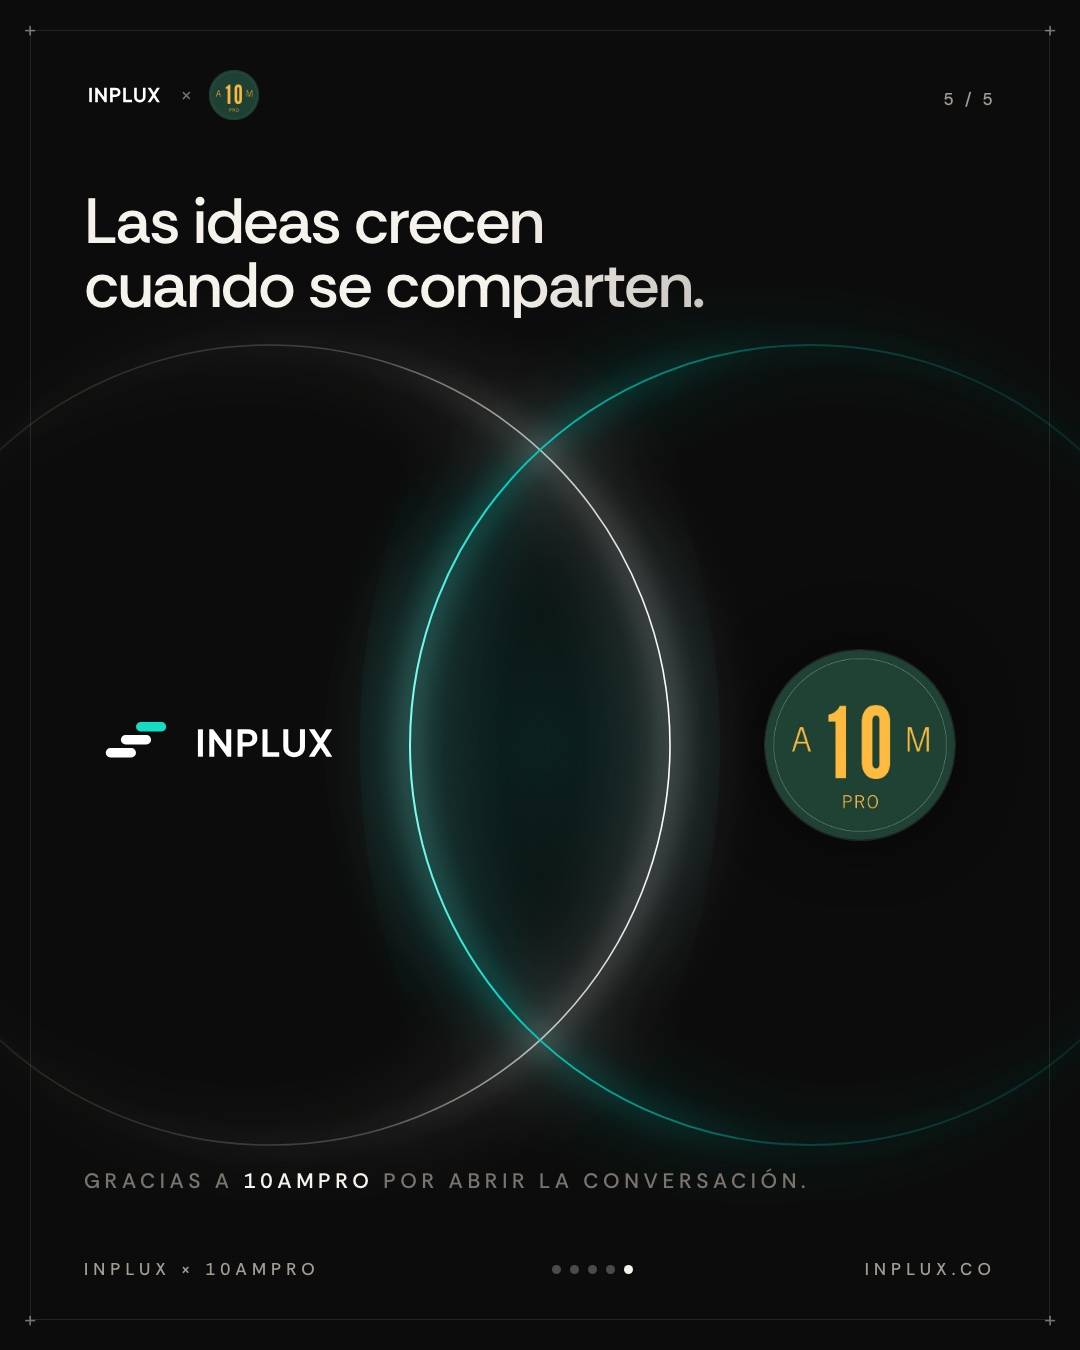
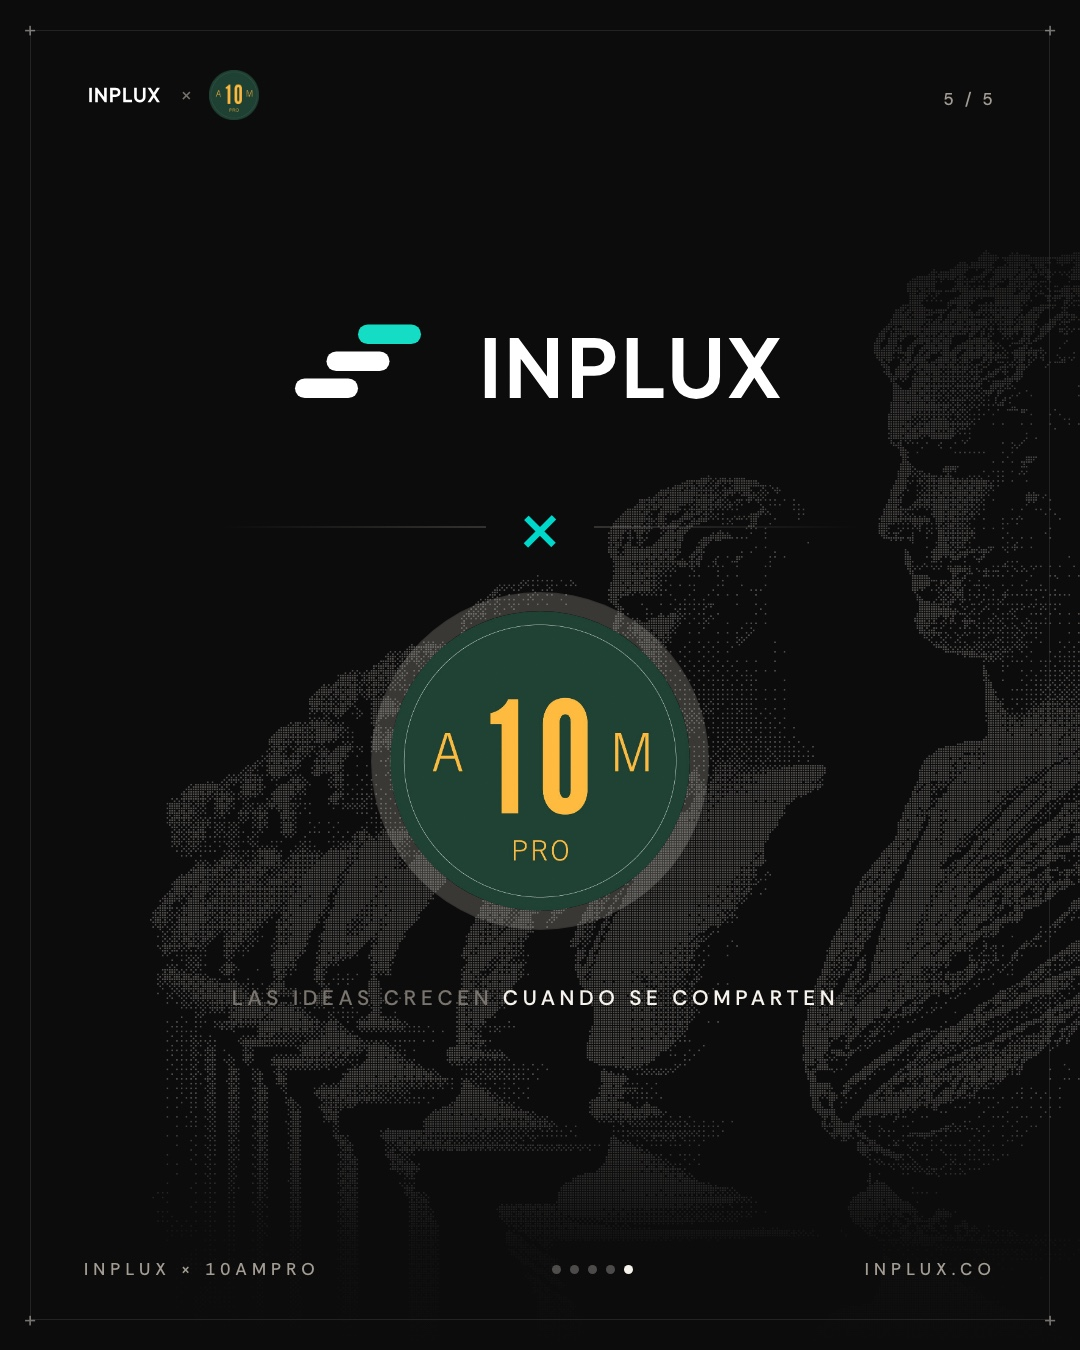
feat(instagram): cierre definitivo = sello INPLUX × 10ampro (opción C)

diff --git a/brand/instagram/dia-d-reglas/reglas10am_05_cierre.html b/brand/instagram/dia-d-reglas/reglas10am_05_cierre.html
@@ -23,33 +23,15 @@ body{font-family:"Rethink Sans",sans-serif;color:#f6f2ec;-webkit-font-smoothing:
   box-shadow:0 0 0 14px rgba(0,215,202,.05),0 0 80px rgba(0,215,202,.18)}
 .tallo{width:1.5px;background:rgba(246,242,236,.16);margin:0 auto}
 .tarjeta{background:#f6f2ec;color:#0c0c0b;border-radius:14px;display:flex;justify-content:space-between;align-items:center;padding:30px 36px}
-</style></head><body><div class="lienzo"><svg width="1080" height="1350" viewBox="0 0 1080 1350" style="position:absolute;inset:0">
-  <defs>
-    <linearGradient id="gi" gradientUnits="userSpaceOnUse" x1="-130" y1="0" x2="670" y2="0">
-      <stop offset="0" stop-color="#f6f2ec" stop-opacity=".04"/><stop offset=".62" stop-color="#f6f2ec" stop-opacity=".22"/>
-      <stop offset="1" stop-color="#ffffff" stop-opacity="1"/></linearGradient>
-    <linearGradient id="gd" gradientUnits="userSpaceOnUse" x1="410" y1="0" x2="1210" y2="0">
-      <stop offset="0" stop-color="#7ffff4" stop-opacity="1"/><stop offset=".12" stop-color="#00d7ca" stop-opacity=".95"/>
-      <stop offset=".45" stop-color="#00d7ca" stop-opacity=".25"/><stop offset="1" stop-color="#00d7ca" stop-opacity=".05"/></linearGradient>
-    <filter id="halo" x="-20%" y="-20%" width="140%" height="140%"><feGaussianBlur stdDeviation="14"/></filter>
-    <filter id="halo2" x="-20%" y="-20%" width="140%" height="140%"><feGaussianBlur stdDeviation="40"/></filter>
-    <radialGradient id="lente" cx="540" cy="745" r="300.0" gradientUnits="userSpaceOnUse">
-      <stop offset="0" stop-color="#00d7ca" stop-opacity=".10"/><stop offset="1" stop-color="#00d7ca" stop-opacity="0"/></radialGradient>
-  </defs>
-  <ellipse cx="540" cy="745" rx="180.0" ry="380.0" fill="url(#lente)"/>
-  <g filter="url(#halo2)" opacity=".9"><circle cx="270" cy="745" r="400" fill="none" stroke="url(#gi)" stroke-width="10"/><circle cx="810" cy="745" r="400" fill="none" stroke="url(#gd)" stroke-width="12"/></g>
-  <g filter="url(#halo)" opacity=".9"><circle cx="270" cy="745" r="400" fill="none" stroke="url(#gi)" stroke-width="4"/><circle cx="810" cy="745" r="400" fill="none" stroke="url(#gd)" stroke-width="5"/></g>
-  <circle cx="270" cy="745" r="400" fill="none" stroke="url(#gi)" stroke-width="1.6"/><circle cx="810" cy="745" r="400" fill="none" stroke="url(#gd)" stroke-width="2"/>
-</svg>
-<div style="position:absolute;left:84px;right:84px;top:190px">
-  <h1 class="titular" style="font-size:64px">Las ideas crecen<br>cuando se comparten.</h1>
-</div>
-<div style="position:absolute;left:50px;width:340px;top:707px;display:flex;justify-content:center;align-items:center;gap:16px">
-  <svg viewBox="0 0 100 100" width="72" height="72"><rect x="8" y="57" width="42" height="13" rx="6.5" fill="#fff"/><rect x="29" y="39" width="42" height="13" rx="6.5" fill="#fff"/><rect x="50" y="21" width="42" height="13" rx="6.5" fill="#15dcc4"/></svg><img src="assets/wordmark-white.svg" style="height:42px;display:block"></div>
-<div style="position:absolute;left:690px;width:340px;top:650px;display:flex;justify-content:center">
-  <img src="assets/10ampro.png" style="width:190px;height:190px;display:block;box-shadow:0 0 0 1px rgba(246,242,236,.12),0 0 60px rgba(0,0,0,.6);border-radius:50%"></div>
-<div style="position:absolute;left:84px;right:84px;bottom:150px;display:flex;justify-content:space-between;align-items:center">
-  <span class="sub">Gracias a <b>10ampro</b> por abrir la conversación.</span>
+</style></head><body><div class="lienzo"><img class="trama" src="trama/galeria.png" style="left:150px;top:250px;width:1250px;opacity:0.28;-webkit-mask-image:none;mask-image:none"><div style="position:absolute;inset:0;background:linear-gradient(180deg,#0c0c0b 0%,rgba(12,12,11,.85) 14%,rgba(12,12,11,.25) 30%,transparent 45%,transparent 80%,rgba(12,12,11,.9) 92%,#0c0c0b 100%)"></div>
+<div style="position:absolute;inset:0;display:flex;flex-direction:column;align-items:center;justify-content:center;gap:40px;padding-bottom:40px">
+  <div style="display:flex;align-items:center;gap:30px"><svg viewBox="0 0 100 100" width="150" height="150"><rect x="8" y="57" width="42" height="13" rx="6.5" fill="#fff"/><rect x="29" y="39" width="42" height="13" rx="6.5" fill="#fff"/><rect x="50" y="21" width="42" height="13" rx="6.5" fill="#15dcc4"/></svg><img src="assets/wordmark-white.svg" style="height:92px"></div>
+  <div style="display:flex;align-items:center;gap:28px;width:640px">
+    <i style="flex:1;height:1.5px;background:linear-gradient(90deg,transparent,rgba(246,242,236,.16))"></i>
+    <span style="font-size:88px;line-height:1;color:#00d7ca;font-weight:400">×</span>
+    <i style="flex:1;height:1.5px;background:linear-gradient(90deg,rgba(246,242,236,.16),transparent)"></i></div>
+  <img src="assets/10ampro.png" style="width:300px;height:300px;display:block;border-radius:50%;box-shadow:0 0 0 18px rgba(246,242,236,.03),0 0 0 19px rgba(246,242,236,.16)">
+  <p class="sub" style="margin-top:30px;text-align:center">Las ideas crecen <b>cuando se comparten</b>.</p>
 </div>
 <div class="grano"></div><div class="marco"></div><div class="cruz" style="top:21px;left:21px">+</div><div class="cruz" style="top:21px;right:21px">+</div><div class="cruz" style="bottom:21px;left:21px">+</div><div class="cruz" style="bottom:21px;right:21px">+</div>
 <div style="position:absolute;left:84px;top:70px"><div style="display:flex;align-items:center;gap:16px"><img src="assets/wordmark-white.svg" style="height:22px;display:block"><span style="color:#77726b;font-size:22px;line-height:1">×</span><img src="assets/10ampro.png" style="height:50px;width:50px;display:block"></div></div>

diff --git a/brand/instagram/dia-d-reglas/build.py b/brand/instagram/dia-d-reglas/build.py
@@ -247,12 +247,9 @@ PIEZAS = {
                                                "La sincronización de <b>muchas mentes</b> en un mismo lugar.", d_collective()), 1080, 1350),
     "reglas10am_04_network": (lambda: regla(3, "manos", (-320, 560, 1720), "Network<br>Sharing.",
                                             "Activar <b>las redes propias</b> para acelerar a la gente correcta.", d_network()), 1080, 1350),
-    "reglas10am_05_cierre": (cierre, 1080, 1350),
-    "opcion_b_diagrama": (cierre_diagrama, 1080, 1350),
-    "opcion_c_sello": (cierre_sello, 1080, 1350),
+    "reglas10am_05_cierre": (cierre_sello, 1080, 1350),  # elegido por Cristian el 22-oct (opción C)
 }
-if (AQUI / "trama" / "toque.png").exists():
-    PIEZAS["opcion_a_manos"] = (cierre_manos, 1080, 1350)
+# Descartadas el 22-oct, se conservan por si se retoman: cierre (eclipse), cierre_manos (A), cierre_diagrama (B).
 
 if __name__ == "__main__":
     for nombre, (fn, _, _) in PIEZAS.items():

diff --git a/brand/instagram/dia-d-reglas/CAPTIONS.md b/brand/instagram/dia-d-reglas/CAPTIONS.md
@@ -22,4 +22,4 @@ Colaborador: @10ampro
 **Alt 2:** Estatua de un orador romano en trama de puntos. Texto: «Open Source Capital. Compartir tesis y aprendizajes en vez de guardarlos». Diagrama: una tesis pasa por el logo de 10ampro y se abre a founders, inversionistas, operadores y builders.
 **Alt 3:** Senadores romanos en trama de puntos. Texto: «Collective Intelligence. La sincronización de muchas mentes en un mismo lugar». Diagrama: una pregunta, un dato, una duda y una apuesta convergen en el logo de 10ampro y llegan a «Un mismo lugar».
 **Alt 4:** Manos de mármol entrelazadas en trama de puntos. Texto: «Network Sharing. Activar las redes propias para acelerar a la gente correcta». Diagrama: «Tu red» pasa por el logo de 10ampro hasta «La gente correcta».
-**Alt 5:** Dos círculos grandes que se cruzan sobre negro, con el borde iluminado en blanco y teal hacia la intersección. En uno el logo de INPLUX, en el otro el de 10ampro. Texto: «Las ideas crecen cuando se comparten. Gracias a 10ampro por abrir la conversación».
+**Alt 5:** Sello de colaboración sobre negro: el logo de INPLUX arriba, un aspa teal en el medio y el logo de 10ampro abajo, con bustos romanos en trama de puntos de fondo. Texto: «Las ideas crecen cuando se comparten».
